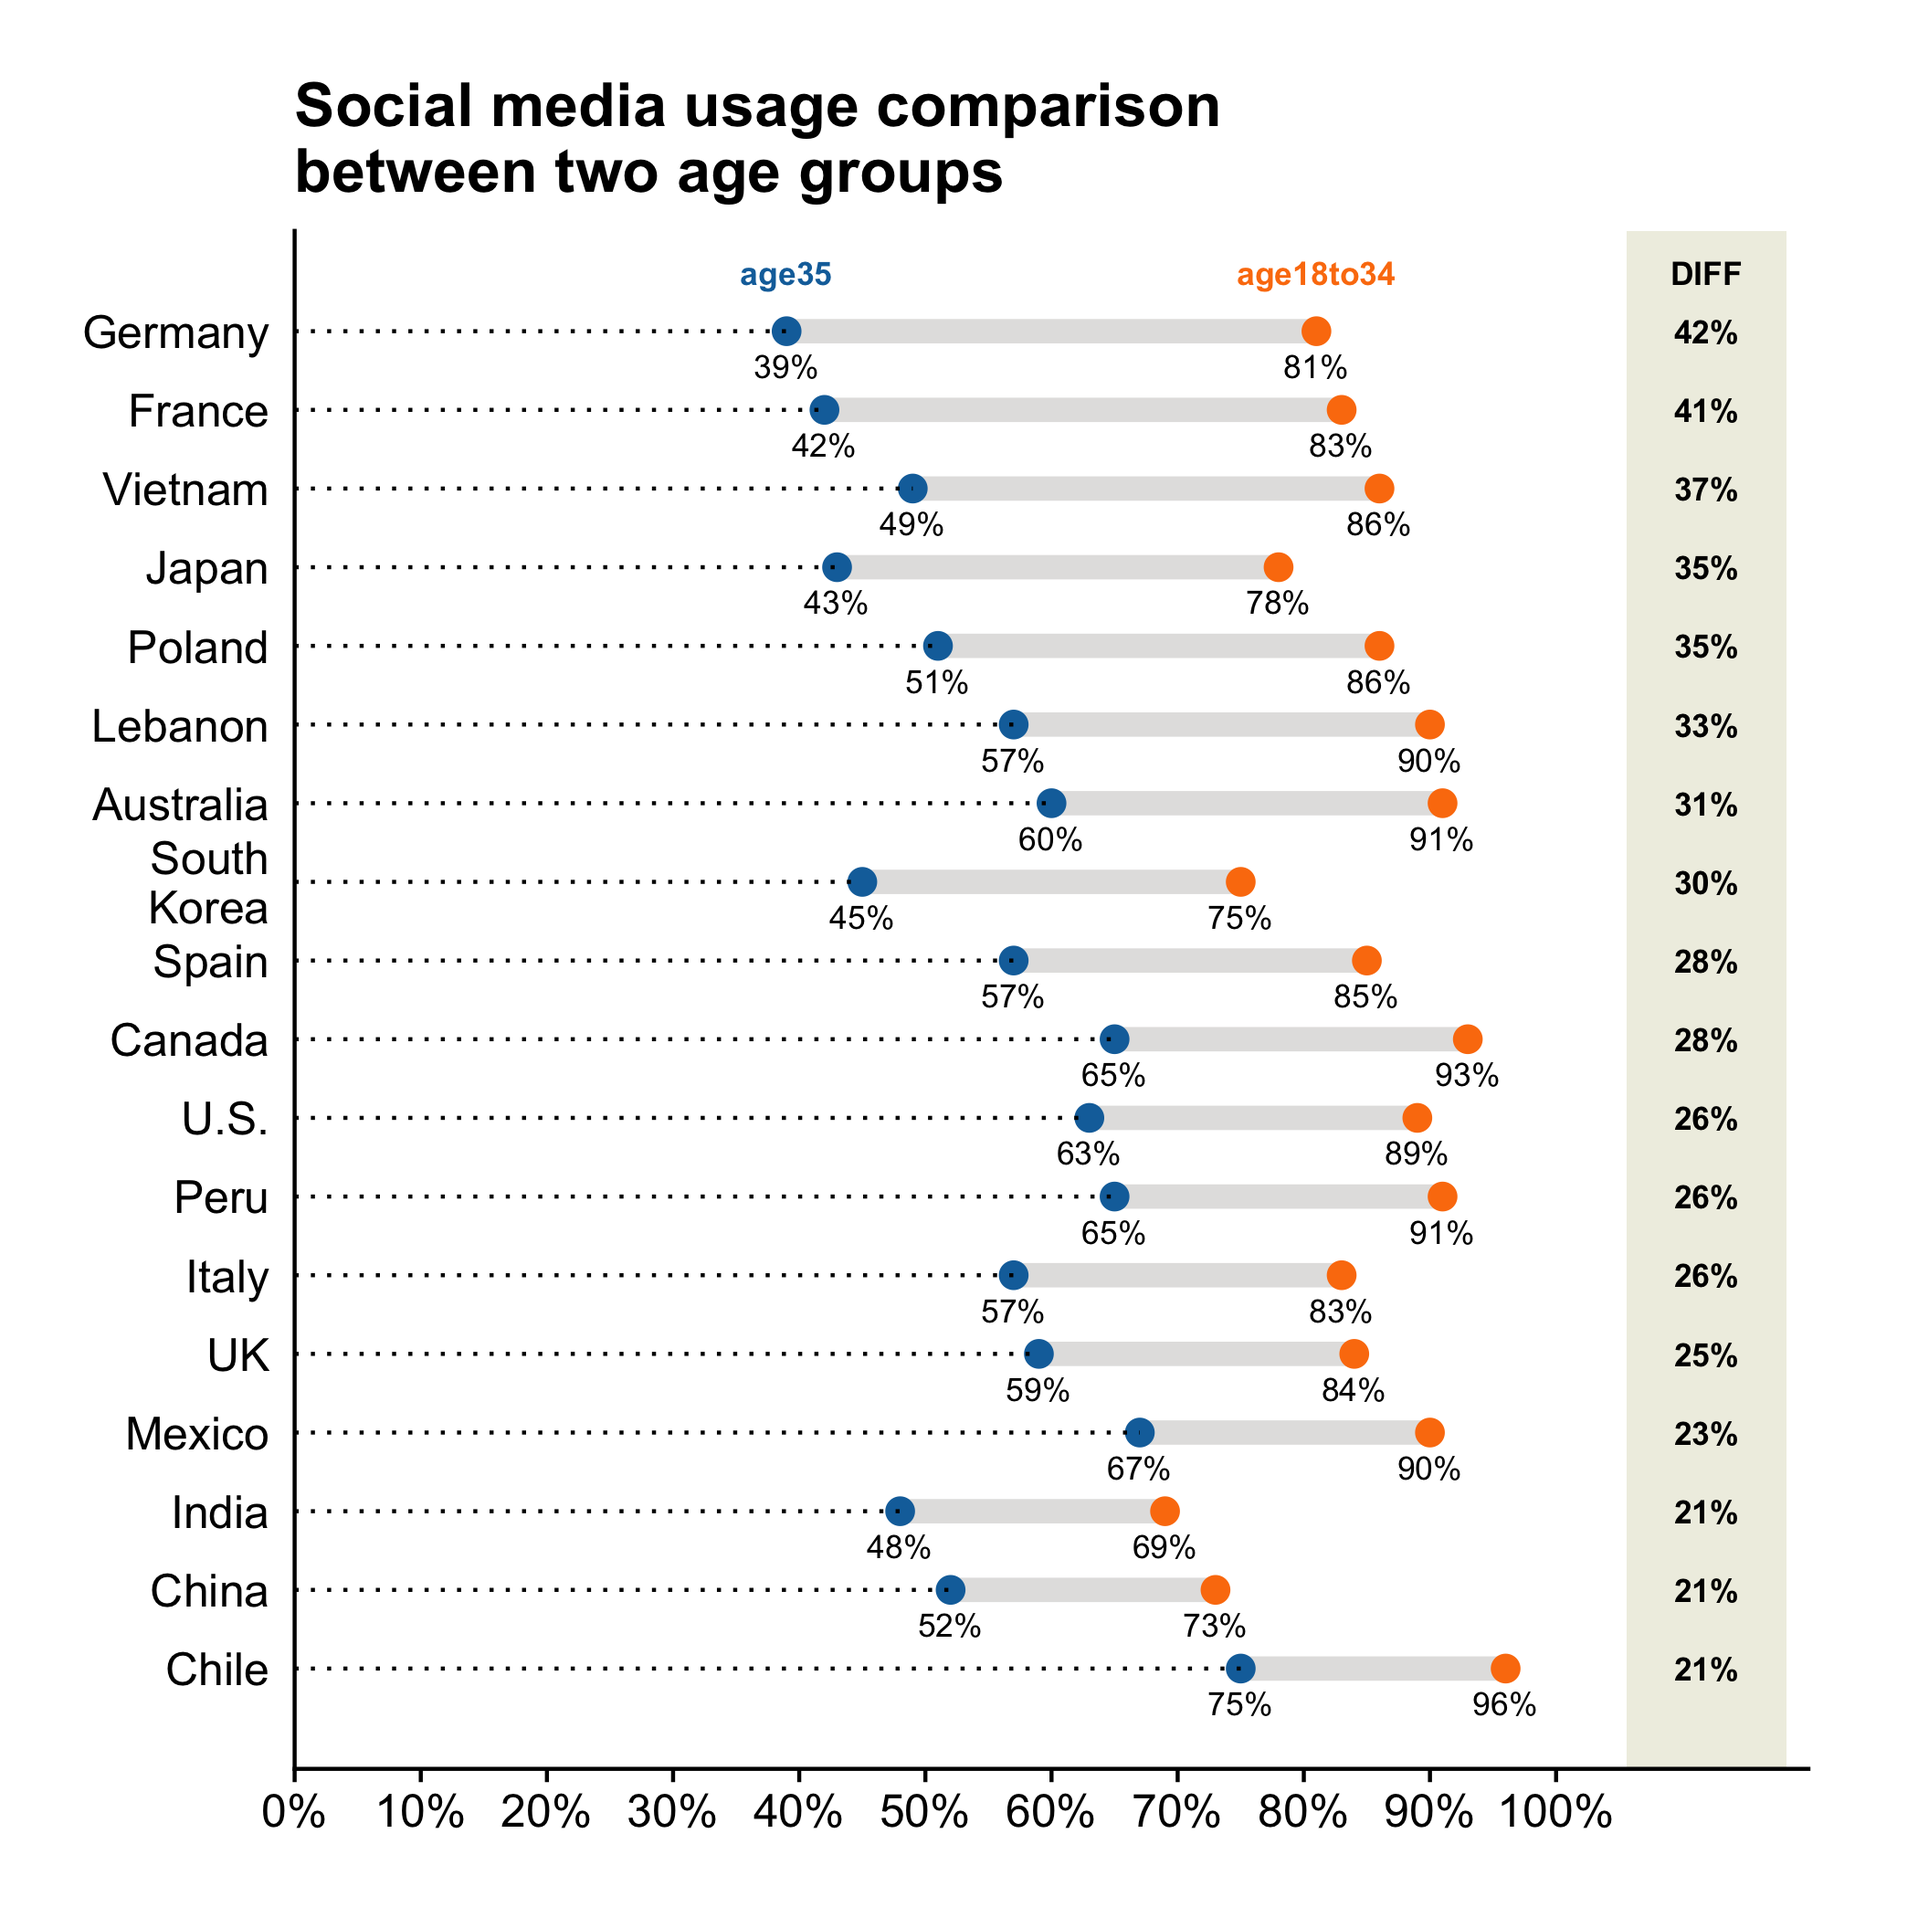
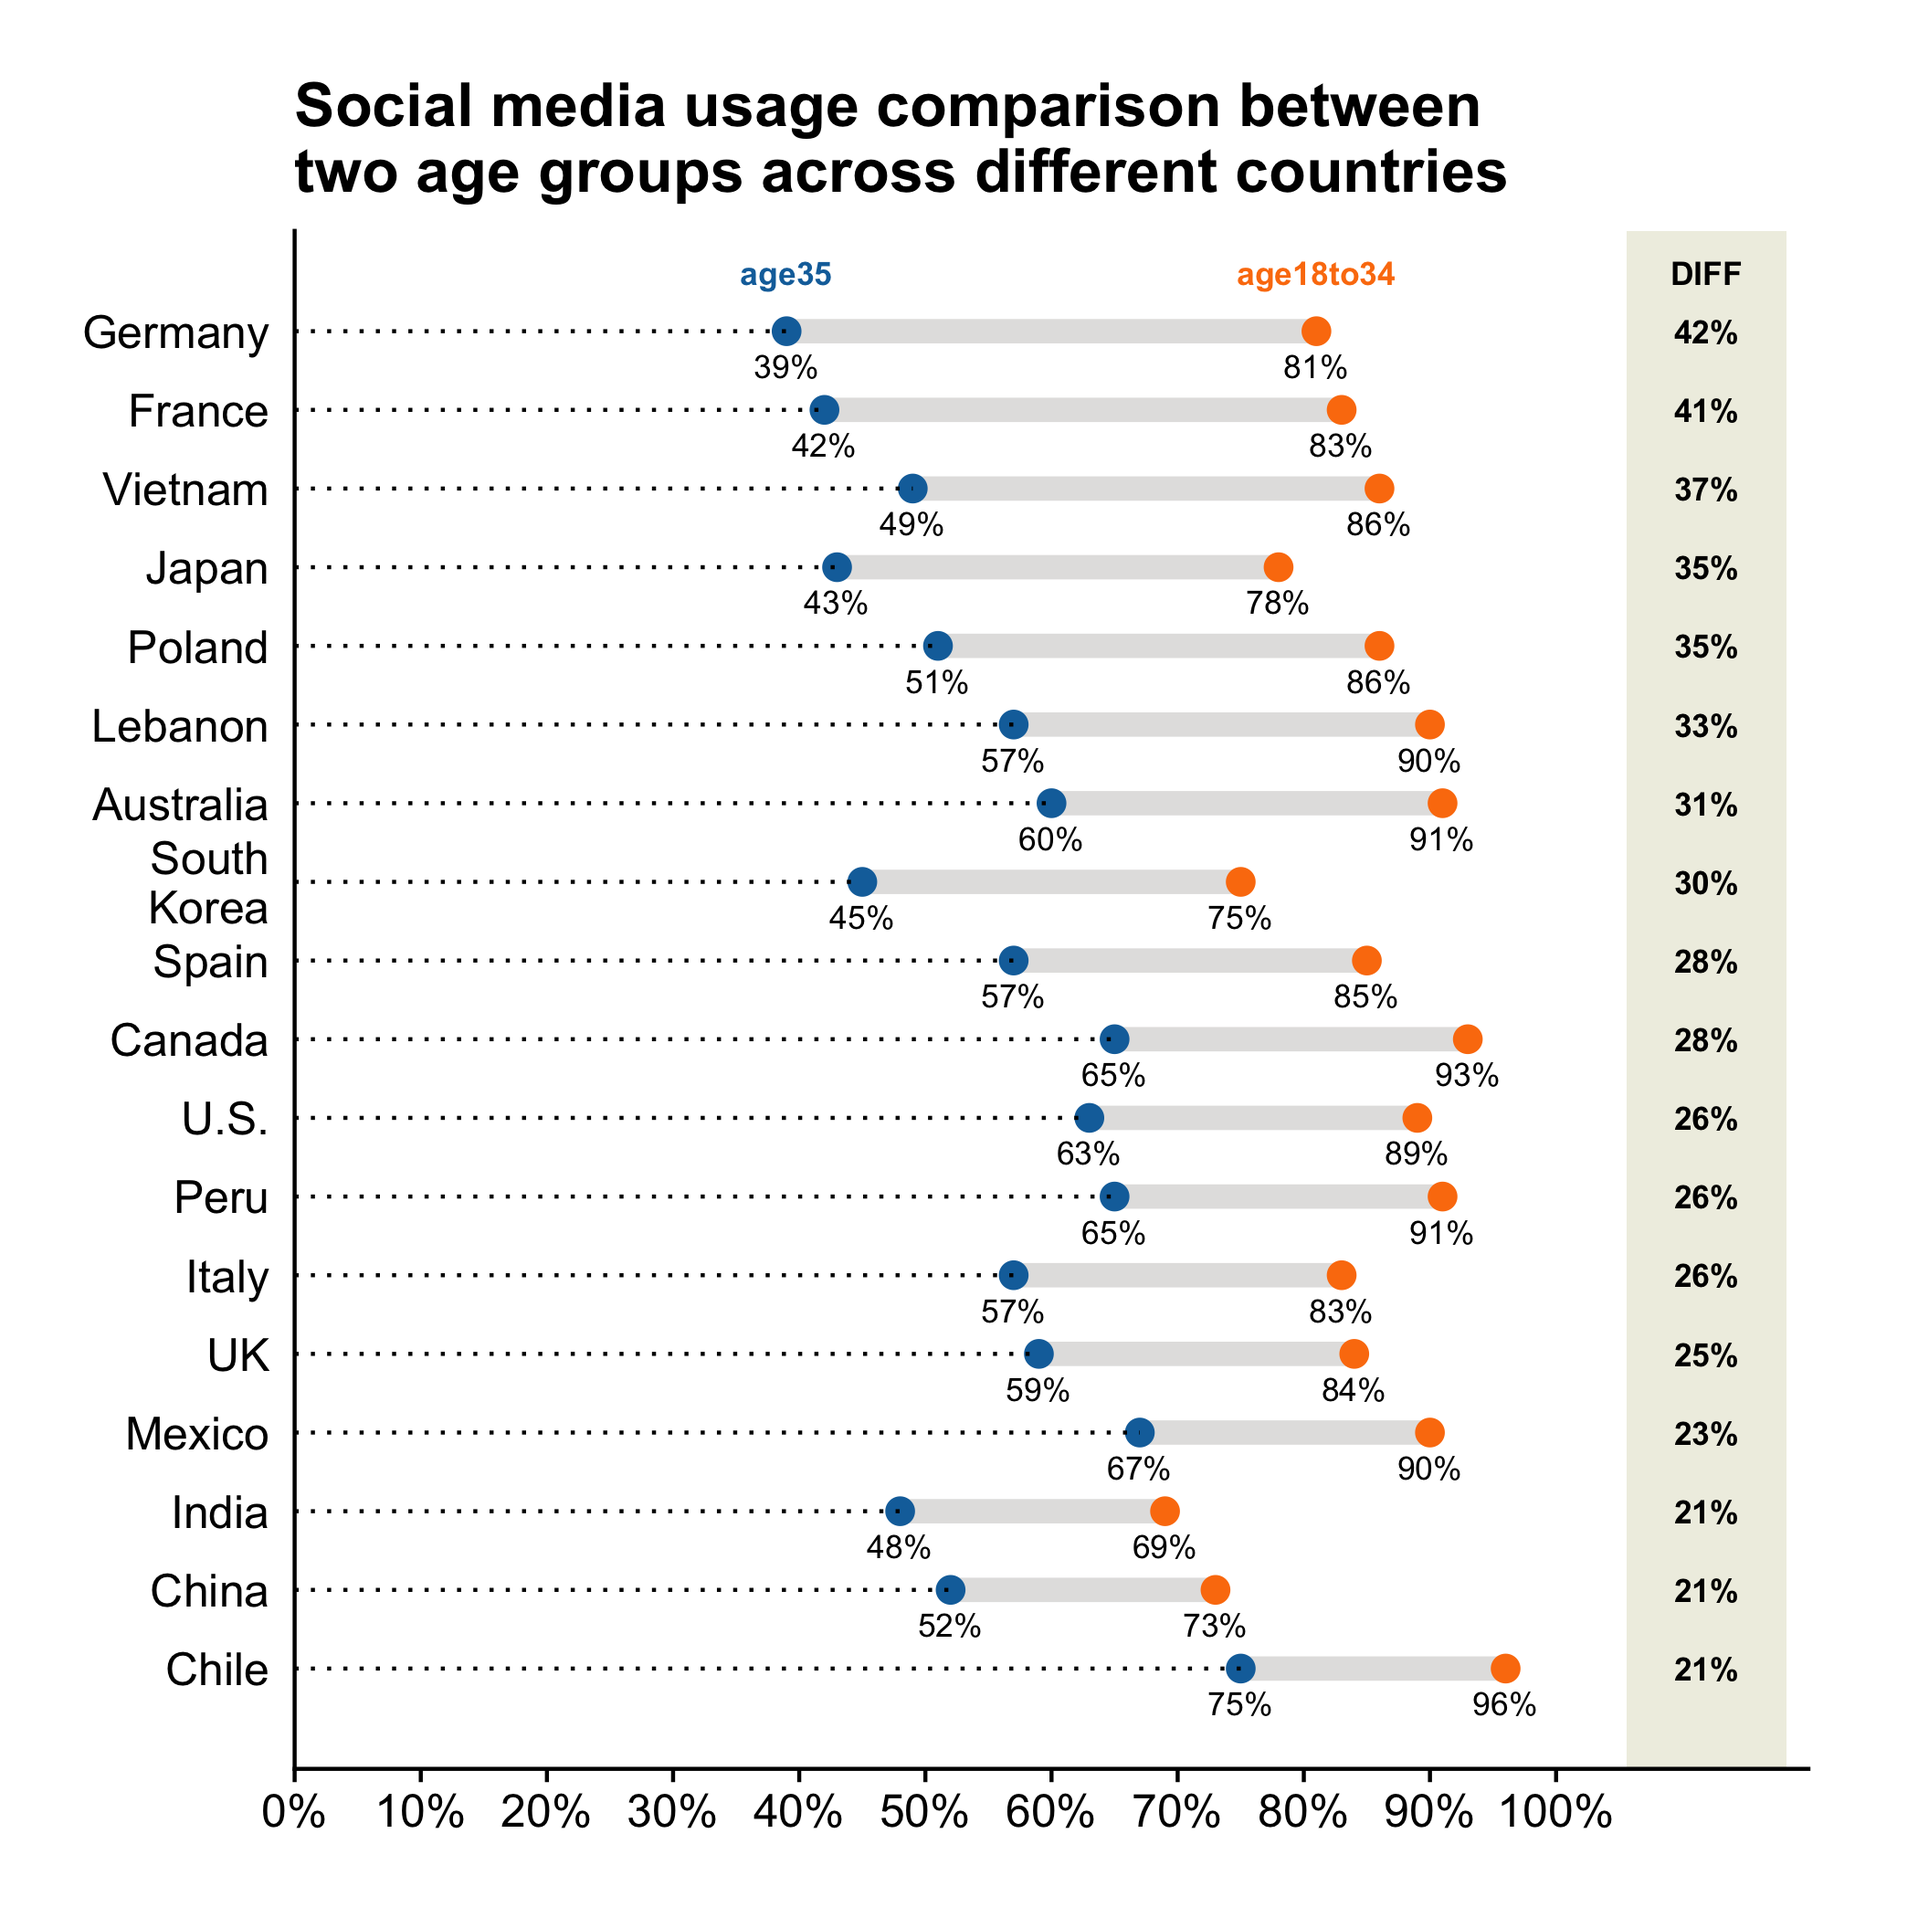
no message

Changed region(s): [[0.1548, 0.031, 0.7738, 0.1238]]

diff --git a/manuscript/05-03-dumbbell.md b/manuscript/05-03-dumbbell.md
@@ -72,7 +72,7 @@ Let's use a dumbbell plot to display the data.
 plt = mk_dumbbell(df)
 plt(xvar_left = "age35", xvar_right = "age18to34", yvar = "country", 
     yorder = "ascend", label_decimals = 2) %>% 
-        add_labs(title = 'Social media usage comparison \nbetween two age groups')
+        add_labs(title = 'Social media usage comparison between \ntwo age groups across different countries')
 ```
 
 ![](images/dumbbell_sm_p1-1.png)
@@ -86,7 +86,7 @@ choose to show them in % format by setting `show_pct = T`.
 ```r
 plt("age35", "age18to34", "country", yorder = "descend", show_pct = T,
     label_decimals = 0) %>% 
-        add_labs(title = 'Social media usage comparison \nbetween two age groups')
+        add_labs(title = 'Social media usage comparison between \ntwo age groups across different countries')
 ```
 
 ![](images/dumbbell_sm_p2-1.png)
